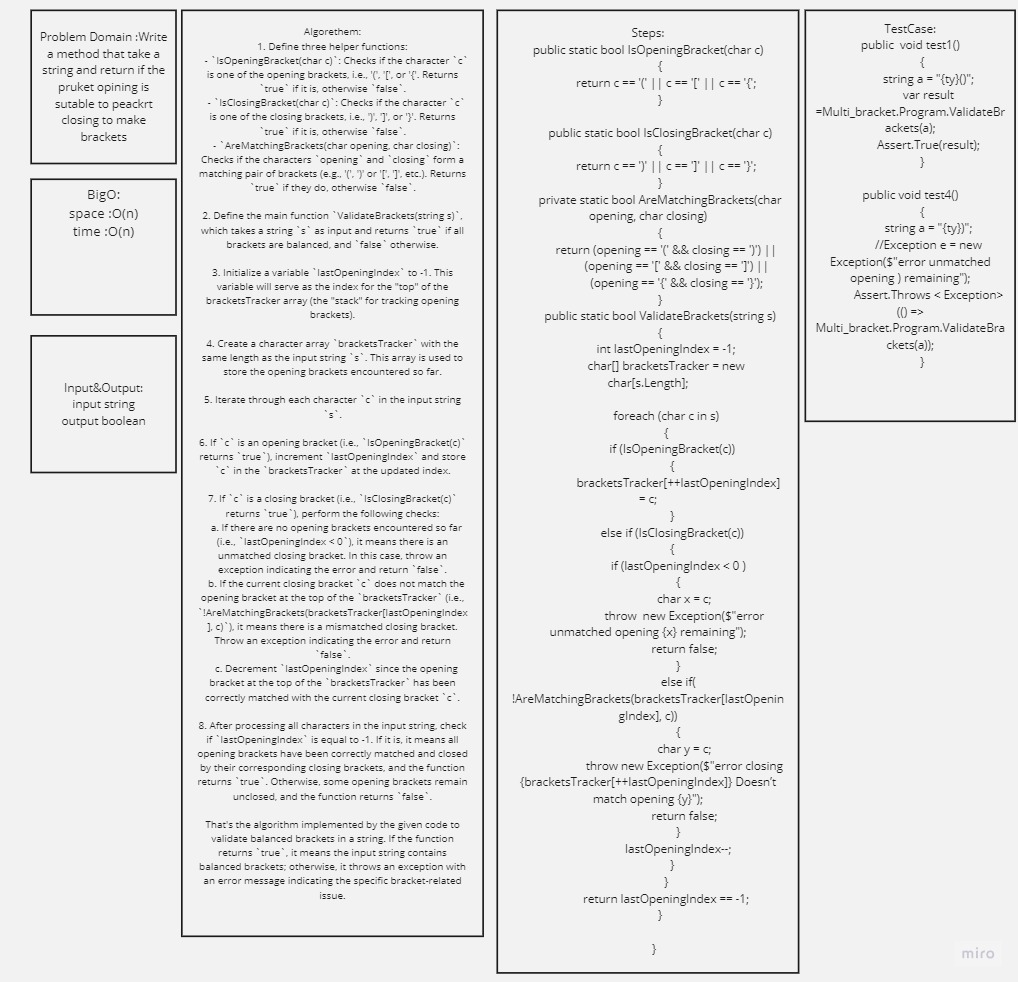
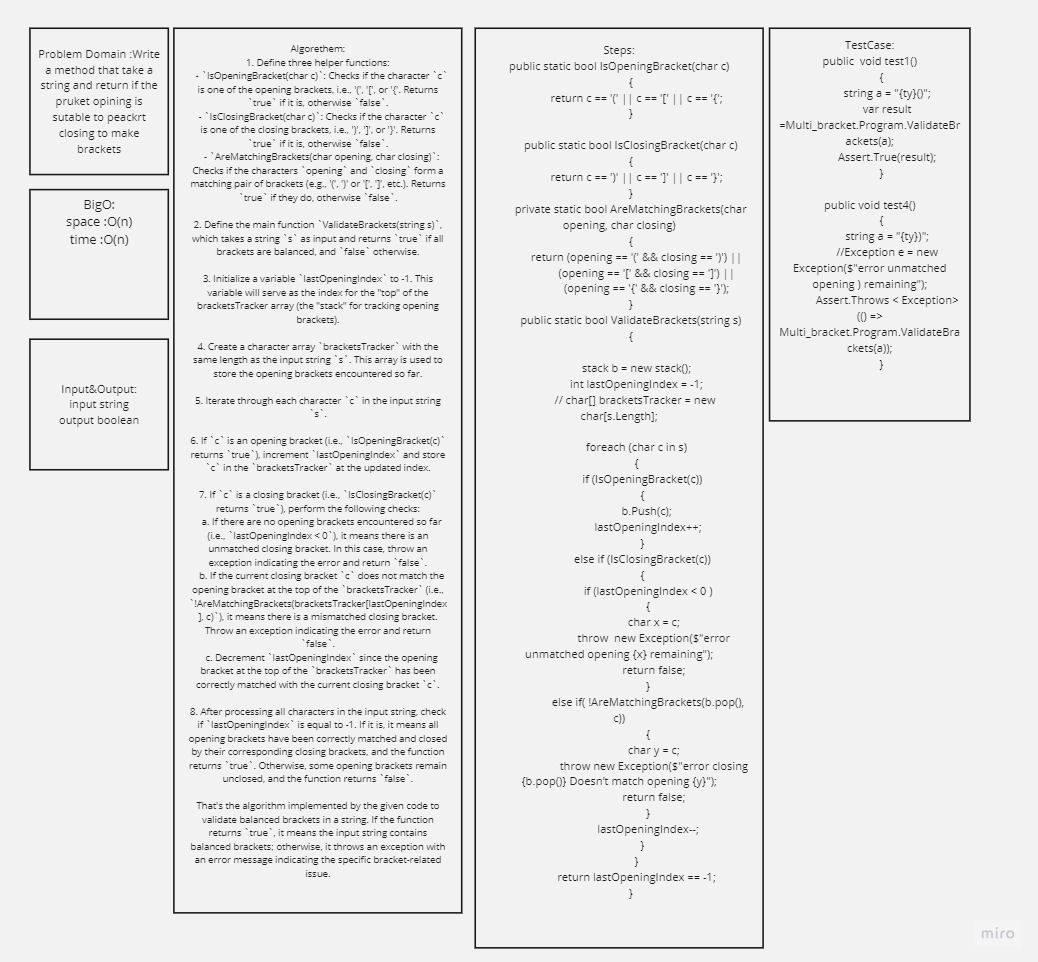
done

diff --git a/Data_Stucture_AndAlgoerthem/Multi-bracket/Multi-bracket/Multi-bracket/Program.cs b/Data_Stucture_AndAlgoerthem/Multi-bracket/Multi-bracket/Multi-bracket/Program.cs
@@ -2,6 +2,60 @@
 
 namespace Multi_bracket
 {
+    public class Node
+    {
+        public char number;
+        public Node next;
+        public Node()
+        {
+
+        }
+        public Node(char value)
+        {
+            number = value;
+
+        }
+    }
+
+    public class stack
+    {
+        Node tail;
+        public stack()
+        {
+            tail = null;
+        }
+
+        public bool IsEmpty()
+        {
+            if (tail == null)
+                return true;
+
+            else
+                return false;
+        }
+
+        public void Push(char value)
+        {
+            Node new_Node = new Node(value);
+            new_Node.next = tail;
+            tail = new_Node;
+
+        }
+
+        public char pop()
+        {
+            if (!IsEmpty())
+            {
+                char x = tail.number;
+                tail = tail.next;
+                return x;
+            }
+
+
+            else
+                throw new Exception("The stack is null");
+        }
+    }
     public class Program
     {
         static void Main(string[] args)
@@ -34,14 +88,16 @@ namespace Multi_bracket
         }
         public static bool ValidateBrackets(string s)
         {
+            stack b = new stack();
             int lastOpeningIndex = -1;
-            char[] bracketsTracker = new char[s.Length];
+           // char[] bracketsTracker = new char[s.Length];
 
             foreach (char c in s)
             {
                 if (IsOpeningBracket(c))
                 {
-                    bracketsTracker[++lastOpeningIndex] = c;
+                   b.Push(c);
+                    lastOpeningIndex++;
                 }
                 else if (IsClosingBracket(c))
                 {
@@ -51,10 +107,10 @@ namespace Multi_bracket
                         throw  new Exception($"error unmatched opening {x} remaining");
                         return false;
                     }
-                    else if( !AreMatchingBrackets(bracketsTracker[lastOpeningIndex], c))
+                    else if( !AreMatchingBrackets(b.pop(), c))
                     {
                         char y = c;
-                        throw new Exception($"error closing {bracketsTracker[++lastOpeningIndex]} Doesn’t match opening {y}");
+                        throw new Exception($"error closing {b.pop()} Doesn’t match opening {y}");
                         return false;
                     }
                     lastOpeningIndex--;
@@ -64,11 +120,11 @@ namespace Multi_bracket
         }
       
     }
-
-   
    
 
-    }
+
+
+}
 
 
 

diff --git a/Data_Stucture_AndAlgoerthem/Max_stack/Max-stack/Max-stack/Program.cs b/Data_Stucture_AndAlgoerthem/Max_stack/Max-stack/Max-stack/Program.cs
@@ -1,0 +1,94 @@
+namespace Max_stack
+{
+    public class Program
+    {
+        static void Main(string[] args)
+        {
+            stack s = new stack();
+            s.Push(20);
+            s.Push(401);
+            s.Push(1);
+            s.Push(-90);
+
+          
+            Console.WriteLine(s.MaxNumber());
+        }
+    }
+
+    public class Node
+    {
+       public int number;
+       public Node next;
+        public Node() 
+        { 
+        
+        }
+        public Node(int value)
+        {
+            number = value;
+            
+        }
+    }
+
+    public class stack
+    {
+        Node tail;
+        public  stack()
+        {
+             tail = null;
+        }
+
+        public bool IsEmpty()
+        {
+            if (tail ==null)
+                return true;
+
+            else
+                return false;
+        }
+
+        public void Push(int value)
+        {
+            Node new_Node = new Node(value);
+            new_Node.next=tail;
+            tail = new_Node;
+
+        }
+
+        public int pop()
+        {
+            if (!IsEmpty())
+            {
+                int x = tail.number;
+                tail = tail.next;
+                return x;
+            }
+               
+
+            else
+                throw new Exception("The stack is null"); 
+        }
+
+        public int MaxNumber()
+        {
+            if (!IsEmpty()) 
+            {
+                int number1 = tail.number;
+                Node pointer = tail;
+                while (pointer != null)
+                {
+                    if(pointer.number > number1) 
+                    {
+                        number1 = pointer.number;
+                    }
+                    pointer = pointer.next;
+                }
+                return number1;
+            }
+            throw new Exception("The stack is null");
+
+        }
+    }
+
+    
+}

diff --git a/Data_Stucture_AndAlgoerthem/Max_stack/Max-stack/TestProject1/UnitTest1.cs b/Data_Stucture_AndAlgoerthem/Max_stack/Max-stack/TestProject1/UnitTest1.cs
@@ -1,0 +1,75 @@
+using Max_stack;
+namespace TestProject1
+{
+    public class UnitTest1
+    {
+        [Fact]
+        public void Test1()
+        {
+            stack s = new stack();
+
+            s.Push(1);
+            s.Push(2);
+            s.Push(3);
+            s.Push(4);
+
+            Assert.Equal(4, s.MaxNumber());
+           
+
+        }
+        [Fact]
+        public void Test2()
+        {
+            stack s = new stack();
+
+            s.Push(15);
+            s.Push(2);
+            s.Push(3);
+            s.Push(4);
+
+            Assert.Equal(15, s.MaxNumber());
+
+
+        }
+        [Fact]
+        public void Test3()
+        {
+            stack s = new stack();
+
+            s.Push(1);
+            s.Push(21);
+            s.Push(3);
+            s.Push(4);
+
+            Assert.Equal(21, s.MaxNumber());
+
+
+        }
+
+        [Fact]
+        public void Test4()
+        {
+            stack s = new stack();
+
+            s.Push(1);
+            s.Push(2);
+            s.Push(33);
+            s.Push(4);
+
+            Assert.Equal(33, s.MaxNumber());
+
+
+        }
+
+        [Fact]
+        public void Test5()
+        {
+            stack s = new stack();
+
+
+
+            Assert.Throws<Exception>(() => s.MaxNumber());
+
+        }
+    }
+}

diff --git a/Data_Stucture_AndAlgoerthem/Max_stack/Max-stack/TestProject1/Usings.cs b/Data_Stucture_AndAlgoerthem/Max_stack/Max-stack/TestProject1/Usings.cs
@@ -1,0 +1,1 @@
+global using Xunit;

diff --git a/Data_Stucture_AndAlgoerthem/Max_stack/Max-stack/README.md b/Data_Stucture_AndAlgoerthem/Max_stack/Max-stack/README.md
@@ -1,0 +1,7 @@
+# Max number in Stack
+
+<br>
+
+in this code challeng i create a stack has a noods and this noods have int value 
+this method find the max value in this stack
+![](img.jpg)
